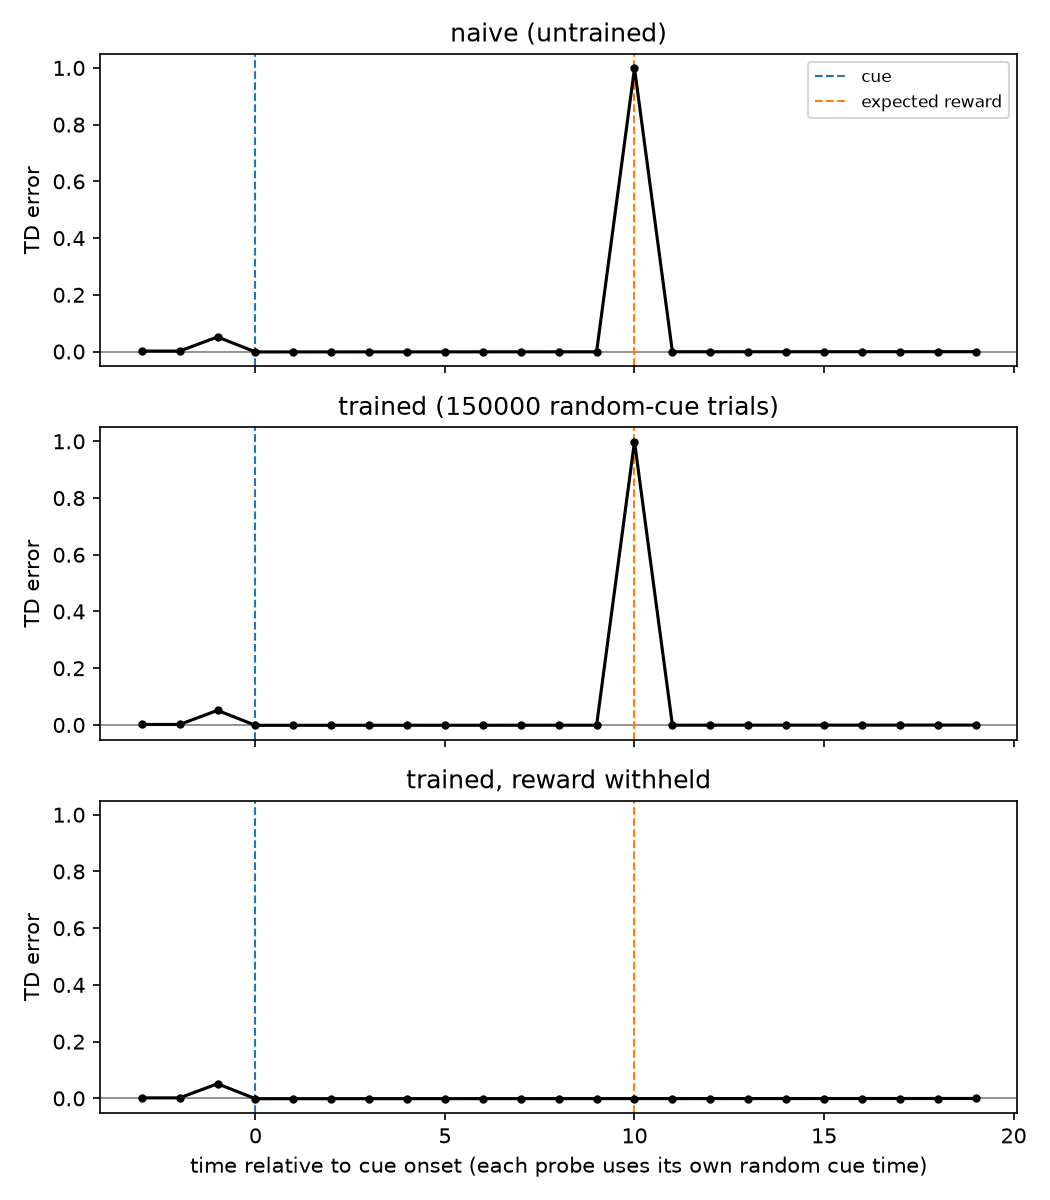
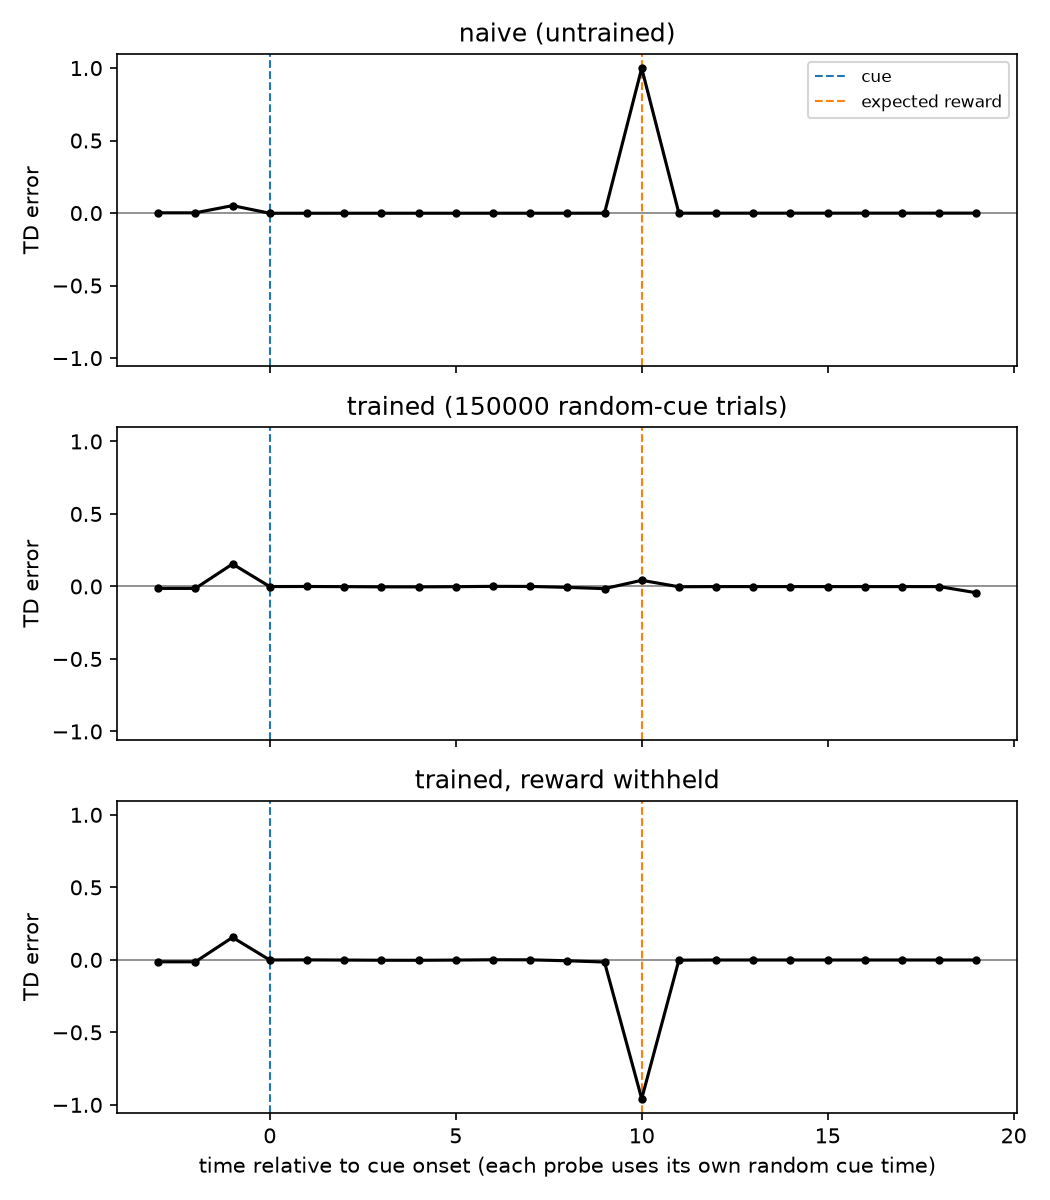
final

diff --git a/td_conditioning_mlp_multiseed.py b/td_conditioning_mlp_multiseed.py
@@ -1,0 +1,119 @@
+"""
+Run td_conditioning_mlp's training procedure over multiple seeds and
+average the resulting TD-error traces.
+"""
+
+import argparse
+import random
+
+import numpy as np
+import torch
+import matplotlib.pyplot as plt
+
+from td_conditioning_mlp import MLP, make_states, run_trial
+
+
+def run_one_seed(seed: int, args) -> tuple[np.ndarray, np.ndarray, np.ndarray]:
+    trial_len = args.trial_len
+    torch.manual_seed(seed)
+    random.seed(seed)
+
+    model = MLP(hidden=args.hidden)
+    opt = torch.optim.Adam(model.parameters(), lr=args.lr)
+
+    pad_before = args.cue_min
+    pad_after = trial_len - 1 - args.cue_max
+
+    def probe(deliver_reward, learn):
+        t_cue = random.randint(args.cue_min, args.cue_max)
+        t_reward = t_cue + args.delay
+        states = make_states(trial_len, t_cue)
+        deltas = run_trial(model, opt, states, t_reward, args.reward, args.gamma,
+                            deliver_reward=deliver_reward, learn=learn)
+        return deltas[t_cue - pad_before: t_cue + pad_after + 1]
+
+    early = probe(deliver_reward=True, learn=False)
+
+    for _ in range(args.n_trials):
+        t_cue = random.randint(args.cue_min, args.cue_max)
+        t_reward = t_cue + args.delay
+        states = make_states(trial_len, t_cue)
+        run_trial(model, opt, states, t_reward, args.reward, args.gamma,
+                  deliver_reward=True, learn=True)
+
+    late = probe(deliver_reward=True, learn=False)
+    omission = probe(deliver_reward=False, learn=False)
+
+    return early, late, omission
+
+
+def main() -> None:
+    parser = argparse.ArgumentParser()
+    parser.add_argument("--trial-len", type=int, default=40)
+    parser.add_argument("--cue-min", type=int, default=3,
+                        help="earliest possible cue onset in any trial")
+    parser.add_argument("--cue-max", type=int, default=20,
+                        help="latest possible cue onset in any trial")
+    parser.add_argument("--delay", type=int, default=10,
+                        help="fixed cue -> reward interval (the only thing "
+                             "that's constant)")
+    parser.add_argument("--reward", type=float, default=1.0)
+    parser.add_argument("--gamma", type=float, default=0.98)
+    parser.add_argument("--lr", type=float, default=1e-2)
+    parser.add_argument("--hidden", type=int, default=32)
+    parser.add_argument("--n-trials", type=int, default=150000)
+    parser.add_argument("--n-seeds", type=int, default=5)
+    parser.add_argument("--seed-start", type=int, default=0)
+    parser.add_argument("--out", type=str, default="td_conditioning_mlp_avg.png")
+    args = parser.parse_args()
+
+    trial_len = args.trial_len
+    assert args.cue_max + args.delay < trial_len, "trial too short!!!!!"
+
+    seeds = list(range(args.seed_start, args.seed_start + args.n_seeds))
+    all_early, all_late, all_omission = [], [], []
+    for seed in seeds:
+        print(f"running seed {seed} ({len(all_early) + 1}/{len(seeds)})...")
+        early, late, omission = run_one_seed(seed, args)
+        all_early.append(early)
+        all_late.append(late)
+        all_omission.append(omission)
+
+    all_early = np.stack(all_early)
+    all_late = np.stack(all_late)
+    all_omission = np.stack(all_omission)
+
+    pad_before = args.cue_min
+    pad_after = trial_len - 1 - args.cue_max
+    rel_t = np.arange(-pad_before, pad_after + 1)
+
+    labels = ["untrained",
+              f"trained ({args.n_trials} random-cue trials)",
+              "trained, reward withheld"]
+    stacks = [all_early, all_late, all_omission]
+
+    fig, axes = plt.subplots(3, 1, figsize=(7, 8), sharex=True, sharey=True)
+    for ax, stack, label in zip(axes, stacks, labels):
+        mean = stack.mean(axis=0)
+        ax.axhline(0, color="gray", linewidth=0.8)
+        ax.axvline(0, color="tab:blue", linestyle="--", linewidth=1, label="cue")
+        ax.axvline(args.delay, color="tab:orange", linestyle="--", linewidth=1,
+                   label="expected reward")
+        ax.plot(rel_t, mean, color="black", marker="o", markersize=3)
+        ax.set_title(f"{label}  (mean, n={stack.shape[0]} seeds)")
+        ax.set_ylabel("TD error")
+    axes[0].legend(loc="upper right", fontsize=8)
+    axes[-1].set_xlabel("time relative to cue onset (each probe uses its own random cue time)")
+    fig.tight_layout()
+    fig.savefig(args.out, dpi=150)
+    print(f"saved plot to {args.out}")
+
+    for label, stack in zip(labels, stacks):
+        mean = stack.mean(axis=0)
+        peak_k = int(np.argmax(np.abs(mean)))
+        print(f"{label}: mean peak TD error {mean[peak_k]:+.3f} at t_rel={rel_t[peak_k]} "
+              f"(cue at t_rel=0, expected reward at t_rel={args.delay})")
+
+
+if __name__ == "__main__":
+    main()

diff --git a/README.md b/README.md
@@ -1,4 +1,4 @@
 TD-reward learning
 
-Test 1:
+
  
